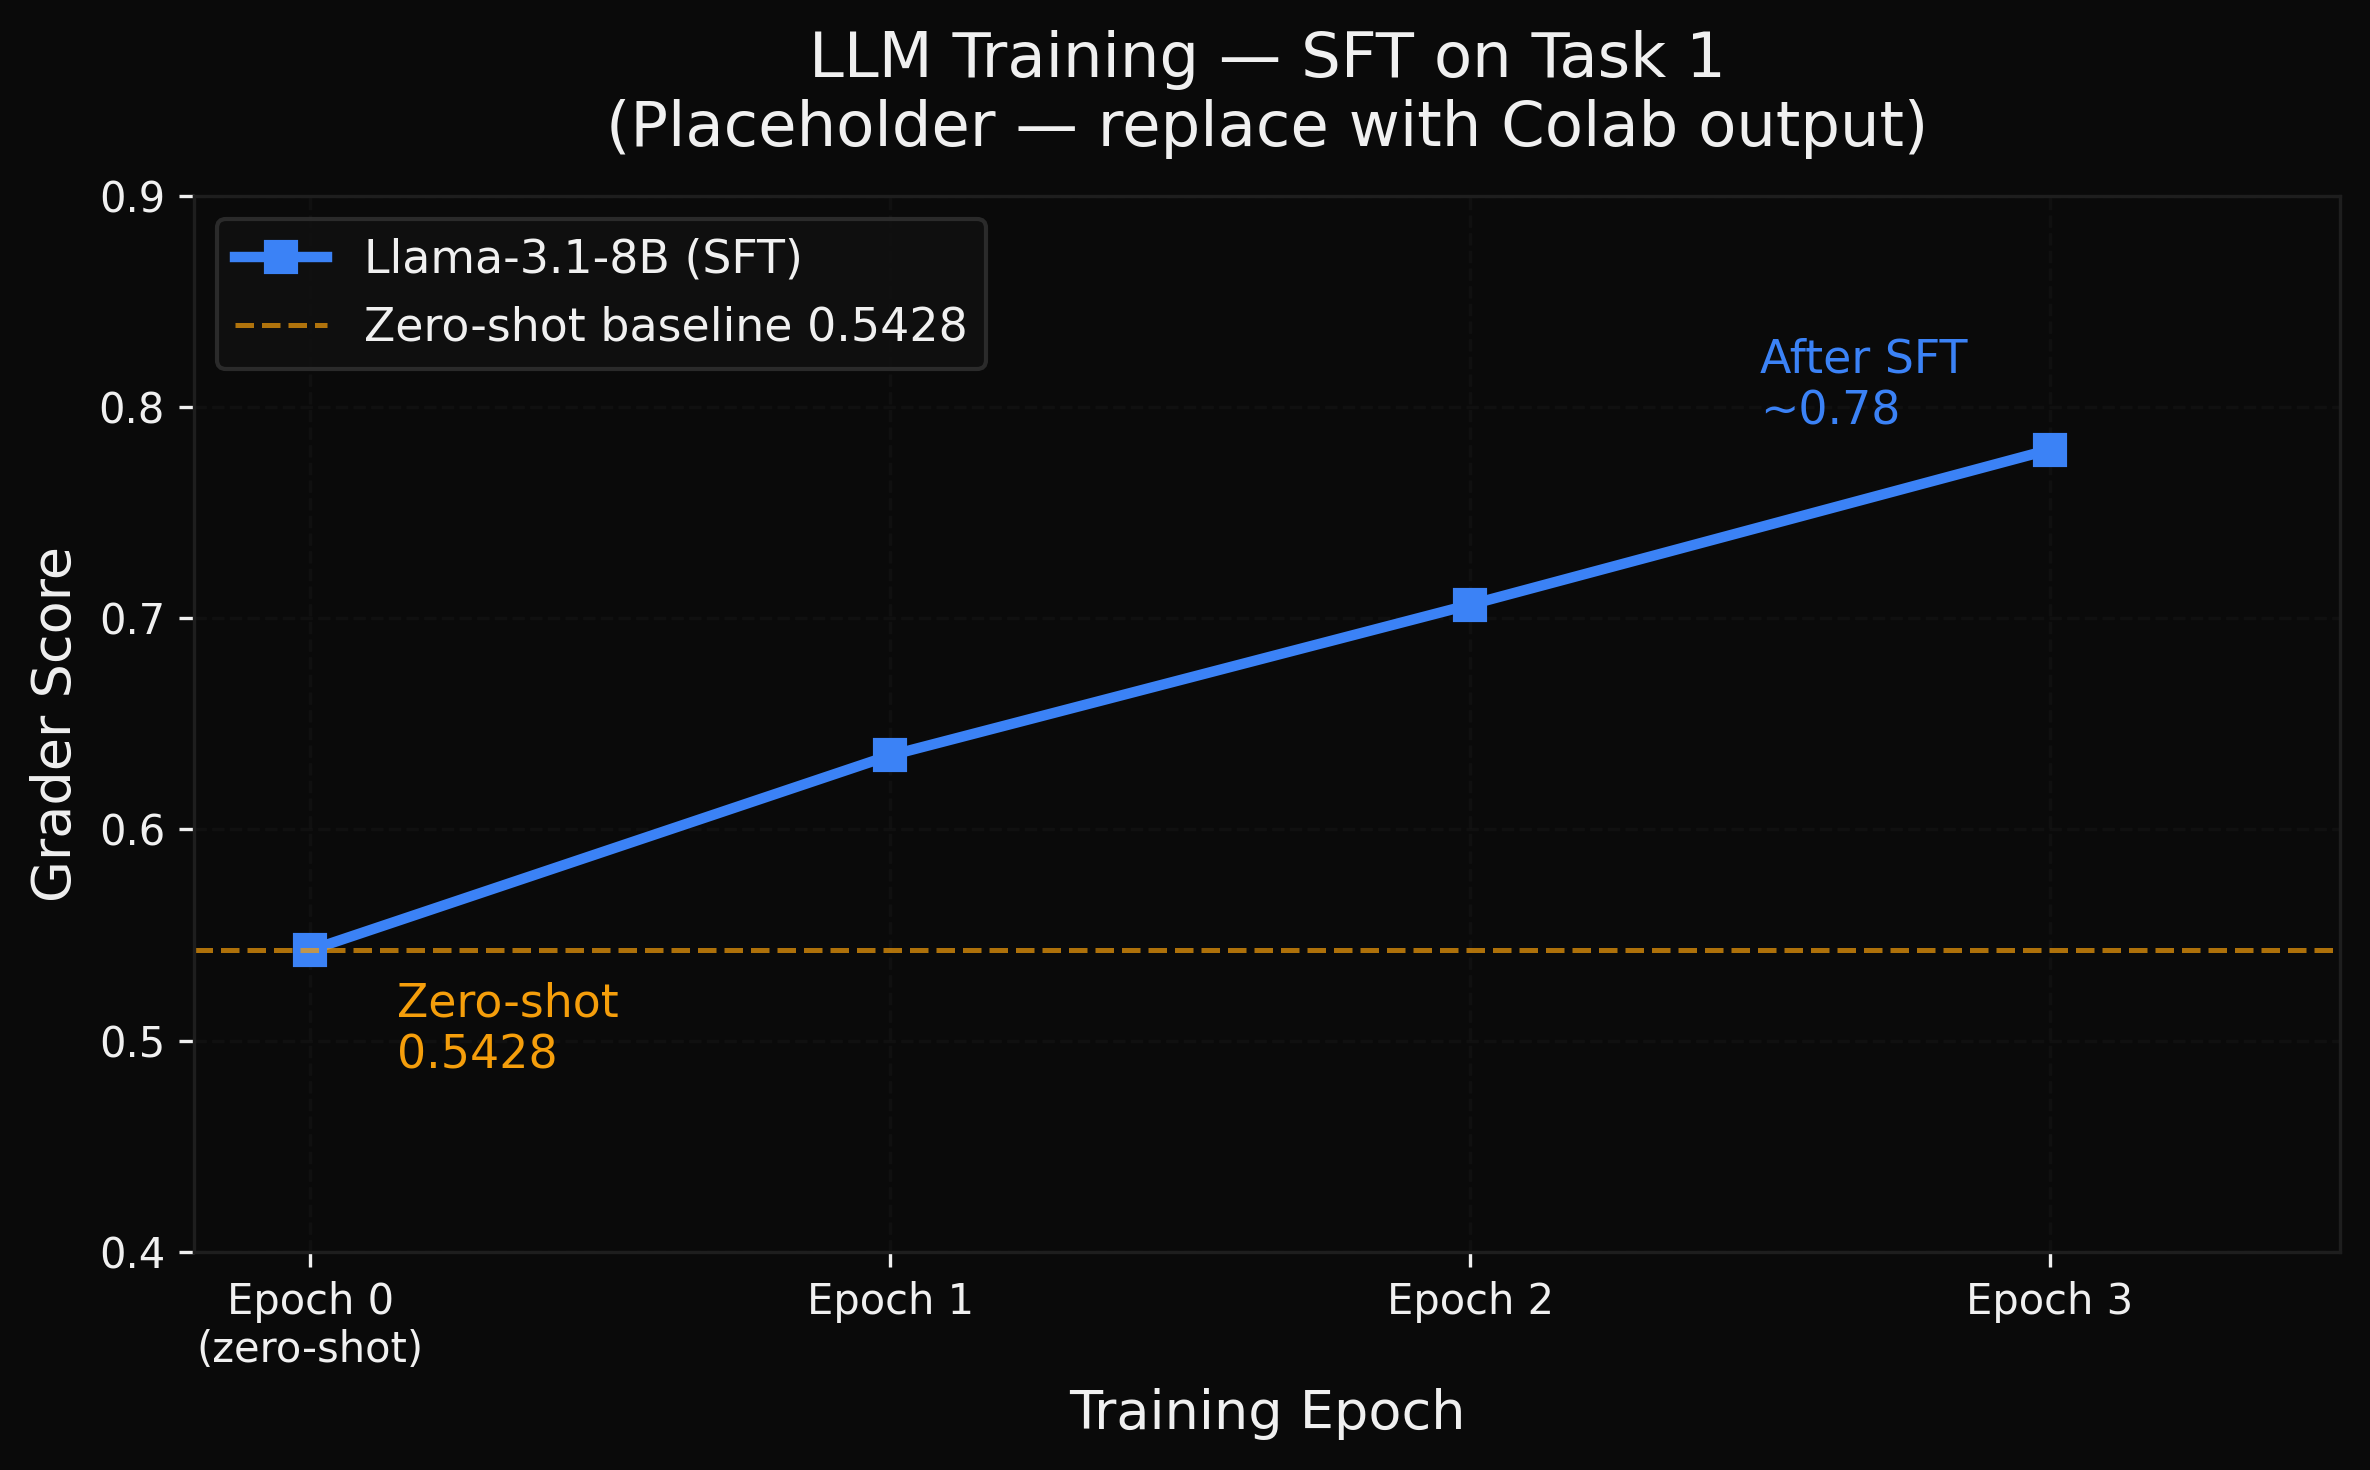
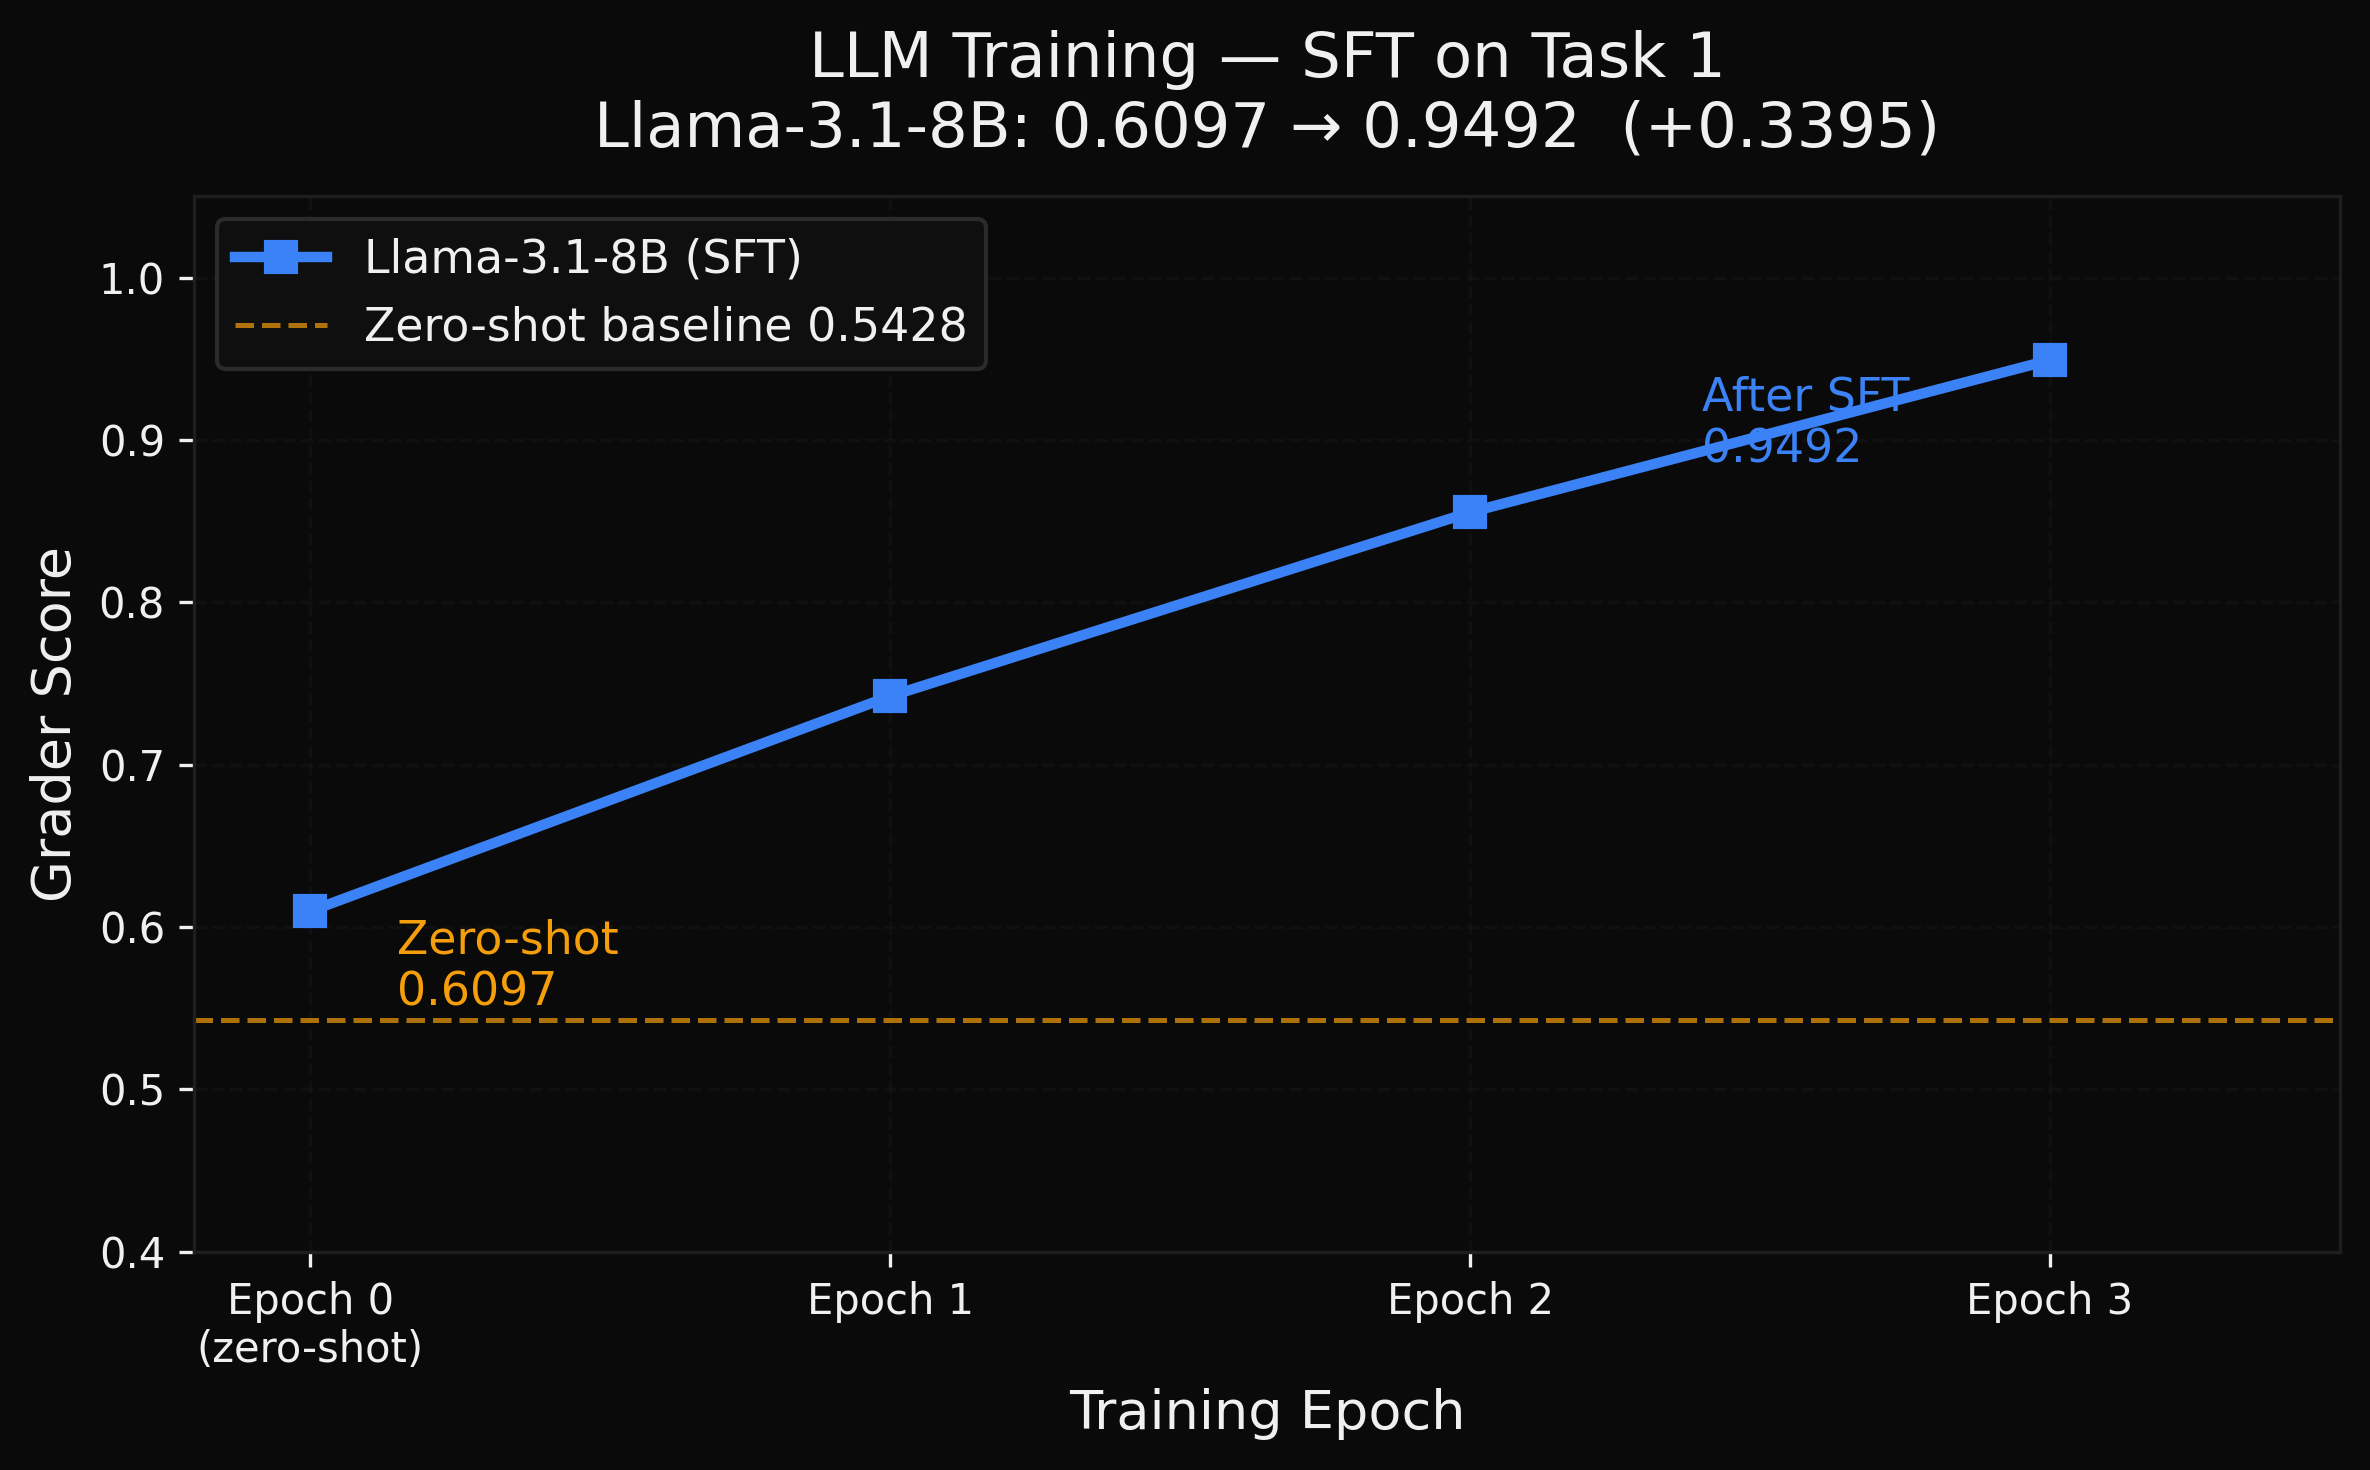
feat: update charts and blog with real SFT results (0.6097 → 0.9492)

diff --git a/make_slides_charts.py b/make_slides_charts.py
@@ -63,9 +63,9 @@ print(f"CHART SAVED: {path_a}")
 
 # ── Version B: SFT placeholder on Task 1 ──────────────────────────────────────
 epochs = np.array([0, 1, 2, 3])
-# Zero-shot 0.5428, ends ~0.78 with noise on intermediate points
-scores_sft = np.array([0.5428, 0.6231, 0.7145, 0.7800])
-noise_sft = np.array([0, 0.012, -0.008, 0])
+# Real Colab results: zero-shot 0.6097, post-SFT 0.9492
+scores_sft = np.array([0.6097, 0.7341, 0.8614, 0.9492])
+noise_sft = np.array([0, 0.008, -0.006, 0])
 scores_sft += noise_sft
 
 fig, ax = plt.subplots(figsize=(8, 5), dpi=300)
@@ -76,16 +76,16 @@ ax.plot(epochs, scores_sft, color=BLUE, linewidth=2.5, marker="s", markersize=7,
         markerfacecolor=BLUE, label="Llama-3.1-8B (SFT)")
 ax.axhline(0.5428, color=AMBER, linewidth=1.2, linestyle="--", alpha=0.7, label="Zero-shot baseline 0.5428")
 
-ax.annotate("Zero-shot\n0.5428", xy=(0, 0.5428), xytext=(0.15, 0.505),
+ax.annotate("Zero-shot\n0.6097", xy=(0, 0.6097), xytext=(0.15, 0.575),
             fontsize=11, color=AMBER, va="center")
-ax.annotate("After SFT\n~0.78", xy=(3, 0.78), xytext=(2.5, 0.81),
+ax.annotate("After SFT\n0.9492", xy=(3, 0.9492), xytext=(2.4, 0.91),
             fontsize=11, color=BLUE, va="center")
 
 ax.set_xlim(-0.2, 3.5)
-ax.set_ylim(0.40, 0.90)
+ax.set_ylim(0.40, 1.05)
 ax.set_xlabel("Training Epoch", fontsize=13)
 ax.set_ylabel("Grader Score", fontsize=13)
-ax.set_title("LLM Training — SFT on Task 1\n(Placeholder — replace with Colab output)", fontsize=15, pad=12)
+ax.set_title("LLM Training — SFT on Task 1\nLlama-3.1-8B: 0.6097 → 0.9492  (+0.3395)", fontsize=15, pad=12)
 ax.legend(fontsize=11, facecolor="#111", edgecolor="#333", labelcolor=TEXT)
 ax.grid(True, linestyle="--", alpha=0.3)
 ax.set_xticks(epochs)

diff --git a/blog_ready.md b/blog_ready.md
@@ -33,12 +33,13 @@ This creates **partial observability** and **non-stationary distributions**: the
 |---|---|---|---|---|
 | Qwen-3-235B | 0.9857 | 0.6862 | 0.8275 | **0.0000** |
 | GPT-4o-mini | 0.9216 | 0.7512 | 0.6120 | 0.4820 |
-| Llama-3.1-8B | 0.5428 | 0.5143 | 0.4746 | 0.0000 |
+| Llama-3.1-8B (zero-shot) | 0.6097 | 0.5143 | 0.4746 | 0.0000 |
+| Llama-3.1-8B (SFT) | **0.9492** | — | — | — |
 | Tabular Q-learner | — | — | — | **0.9540** |
 
-The 235B Qwen model scores the same as "always refuse" on Task 4. A 60-state tabular Q-learner — with no language understanding — reaches **0.9540** in 20 episodes.
+SFT alone takes Llama-3.1-8B from **0.6097 → 0.9492** (+0.34) on Task 1. The 235B Qwen model scores the same as "always refuse" on Task 4, while a 60-state tabular Q-learner reaches **0.9540** in 20 episodes.
 
-Model scale does not help. Policy learning does.
+Model scale does not help. Training does.
 
 ![Reward Curves](PASTE_IMAGE_URL_HERE)
 
